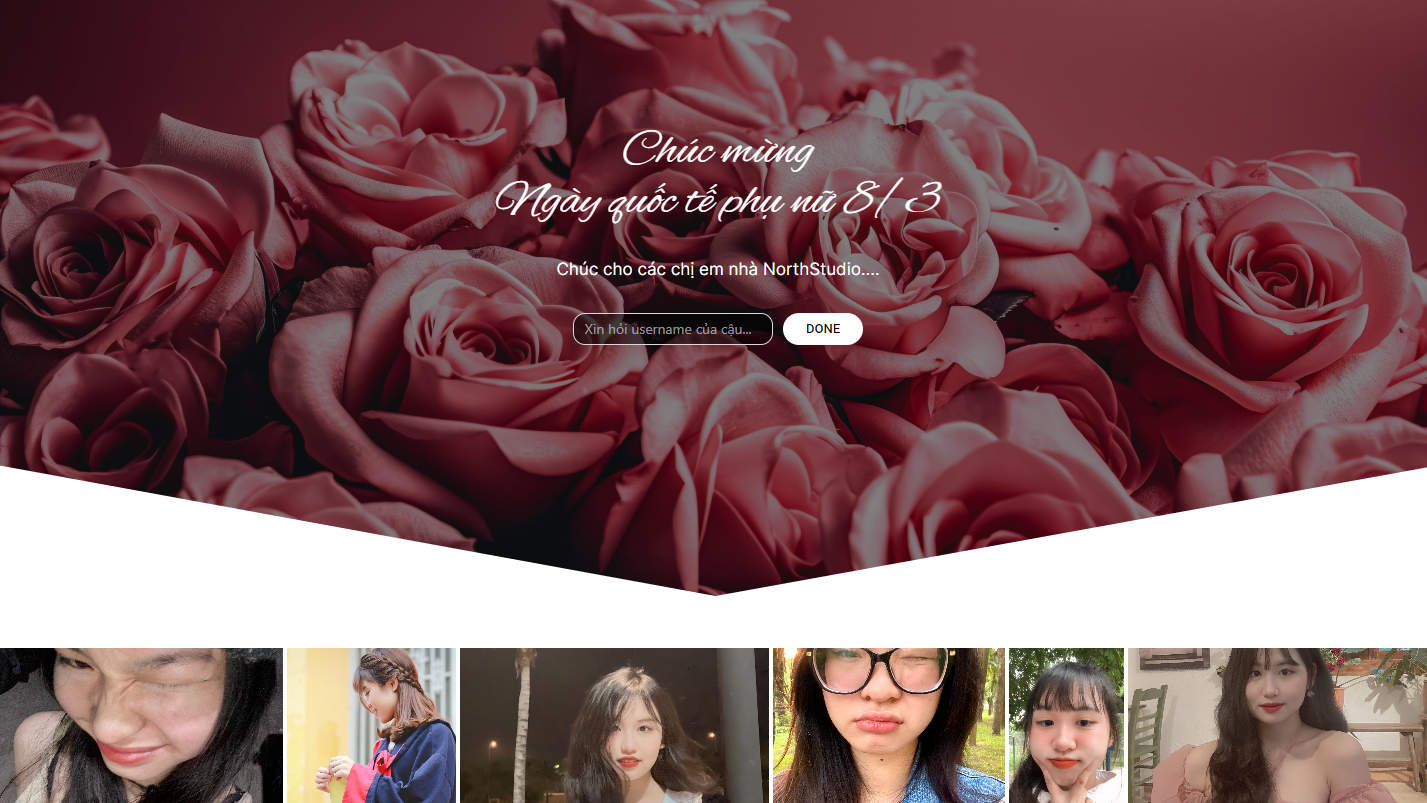
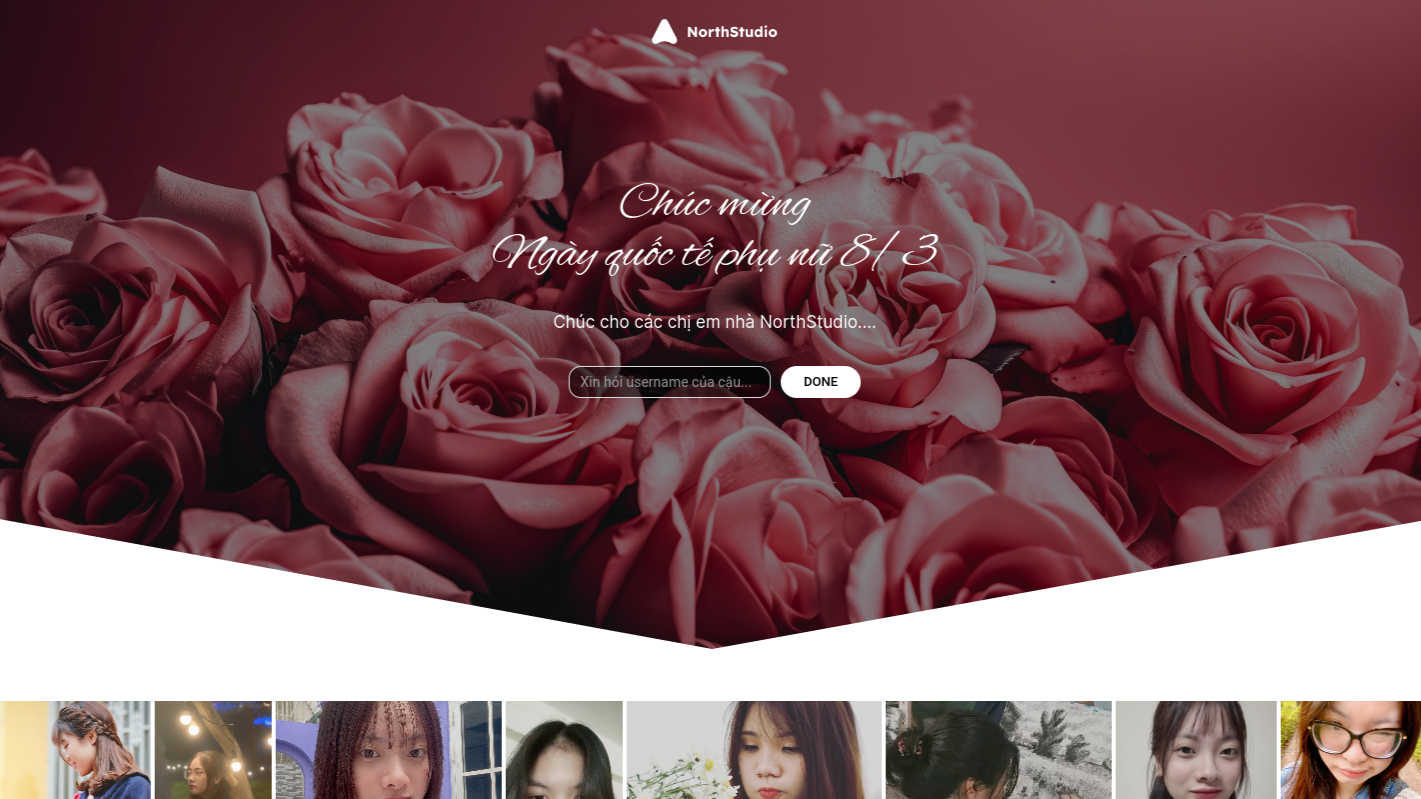
fix image

diff --git a/src/components/ProjectView.tsx b/src/components/ProjectView.tsx
@@ -54,8 +54,7 @@ export const ProjectView = () => {
       <a
         href={project.url}
         key={project.title}
-        style={{ width: viewportWidth / (viewportWidth > 1279 ? 3.6 : 2.5), height: ((viewportWidth / (viewportWidth > 1279 ? 3.6 : 2.5)) * 9) / 16 }}
-        className='flex-1 group flex rounded-xl justify-center items-center overflow-hidden relative'>
+        className='group flex rounded-xl justify-center items-center overflow-hidden relative w-full aspect-16/9'>
         <Image
           fill
           style={{ objectFit: 'cover' }}
@@ -70,38 +69,12 @@ export const ProjectView = () => {
     )
   }
 
-  const itemSm = (project: ProjectProps) => {
-
-    return (
-      <a
-        href={project.url}
-        key={project.title}
-        style={{ width: viewportWidth / 2.5, height: ((viewportWidth / 2.5) * 9) / 16 }}
-        className='flex-1 group flex rounded-xl justify-start overflow-hidden relative'>
-        <Image
-          width={viewportWidth / (2.5)}
-          height={((viewportWidth / 2.5) * 9) / 16}
-          src={project.image}
-          alt={project.title} />
-        <div className="bg-slate-400 flex-1">
-          <p className='text-lg lg:text-2xl 2xl:text-4xl font-bold text-gray-200'>Project: {project.title}</p>
-          {
-            project.member && <p className='text-lg lg:text-2xl 2xl:text-4xl font-bold text-gray-200'>Team size: {project.member}</p>
-          }
-          {
-            project.position && <p className='text-lg lg:text-2xl 2xl:text-4xl font-bold text-gray-200'>position: {project.position}</p>
-          }
-        </div>
-      </a>
-    )
-  }
-
   return (
     <div
       onMouseEnter={() => setHover(true)}
       onMouseLeave={() => setHover(false)}
       className="grid grid-cols-1 lg:grid-cols-2 xl:grid-cols-3 gap-6">
-      {projects.map(viewportWidth > 1023 ? item : itemSm)}
+      {projects.map(item)}
       <motion.div
         animate={{
           opacity: hover ? 1 : 0,

diff --git a/tailwind.config.ts b/tailwind.config.ts
@@ -27,6 +27,17 @@ const config: Config = {
           '100%': { transform: 'translateX(0%)' },
         },
       },
+      aspectRatio: {
+        '4/3': '4 / 3',
+        '3/4': '3 / 4',
+        '16/9': '16 / 9',
+        '9/16': '9 / 16',
+        '1/1': '1 / 1',
+        '21/9': '21 / 9',
+        '9/21': '9 / 21',
+        '19/9': '19 / 9',
+        '9/19': '9 / 19',
+      },
     },
   },
   plugins: [

diff --git a/src/app/page.tsx b/src/app/page.tsx
@@ -223,7 +223,7 @@ export default function Home() {
         </div>
 
         <div id="projects" className="min-h-screen w-screen flex bg-black z-0">
-          <div className="top-0 left-0 w-screen" style={{ zIndex: 0, position: "fixed" }}>
+          <div className="top-0 left-0 w-screen xl:fixed" style={{ zIndex: 0}}>
             <Project />
           </div>
         </div>
